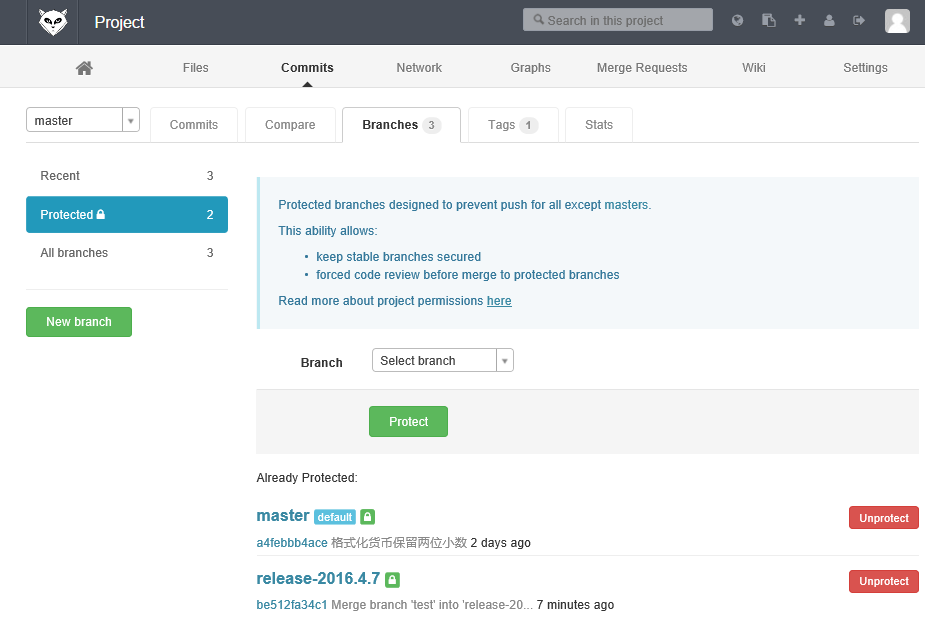
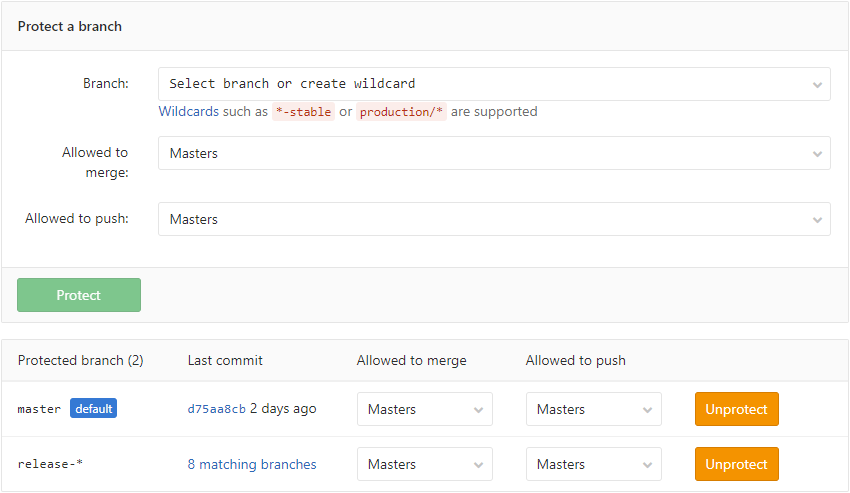
更新 git Protected branches 和 MR

diff --git a/source/_posts/git-permissions.md b/source/_posts/git-permissions.md
@@ -25,14 +25,20 @@ tags: Git
 
 我们需要做的是，为项目成员分配恰当的角色，以限制其权限。
 
-# 锁定受保护分支
+# Protected Branches
 
 在对 Git 不熟悉的时候，时常苦恼于各个分支不受约束，任何开发人员都可以向任何分支直接推送任何提交，各种未经审查的代码、花样百出的 Bug 就这样流窜在预发布分支上。
 
 其实我们可以通过 GitLab 的**受保护分支（Protected Branches）**功能解决该问题，该功能可用于：
 
-* 阻止 Master 角色以外的开发人员直接向此类分支推送代码，保持稳定分支的安全性；
-* 在向受保护分支合并代码前，强制进行代码审查。
+> Keep stable branches secure and force developers to use **merge requests**.
+>
+> By default, protected branches are designed to:
+>
+> - prevent their creation, if not already created, from everybody except Masters
+> - prevent pushes from everybody except Masters
+> - prevent **anyone** from force pushing to the branch
+> - prevent **anyone** from deleting the branch
 
 接下来我们就使用这项功能，锁定我们的受保护分支——主分支 `master` 和预发布分支 `release-*`，以阻止 Developer 直接向这两类分支中推送代码：
 
@@ -54,32 +60,30 @@ To git@website:project.git
 error: failed to push some refs to 'git@website:project.git'
 ```
 
-# 发起合并请求
+# Merge Requests
 
 锁定受保护分支后，要么 Master 需要时刻、主动关注各特性分支的进度，要么 Developer 需要线下、口头向 Master 汇报其特性分支的进度，这两种做法都非常不便于 Master 管理每个预发布分支的合并，尤其在团队大、分支多的情况。
 
 我们可以通过 GitLab 的**发起合并请求（Merge Request）**功能解决该问题，这样既可以让 Developer 更自如的掌控自己分支进度，在必要的时候才主动发起合并请求；又可以减轻 Master 的合并工作量和沟通成本，可谓一举两得。
 
-## 新建合并请求
+## 新建 MR
 
 第一步，按表单要求填写合并请求。注意，对于 Developer 而言：
 
-* `From` 是你的特性分支 `feature-*`；
-* `To` 只可能是预发布分支 `release-*`；
+* `Source branch` 是你的特性分支 `feature-*`；
+* `Tagget branch` 只可能是预发布分支 `release-*`；
 * `Title` 和 `Description` 要填写恰当的分支描述；
-* `Assign to` 是该项目的 Master。
+* `Assignee` 是该项目的 Master。
 
 ![新建合并请求](/img/git/git_new_merge_request.png)
 
-## 审查合并请求
+## 审查 MR
 
-第二步，Master 收到合并请求后，进行代码审查。逐一查看 `Commits` 一栏提交的内容即可，对于需要改进的代码，可以直接在该行添加注释，非常方便。
+第二步，Master 收到合并请求后，进行代码审查。逐一查看 `Commits` 或 `Changes` 一栏提交的内容即可，对于需要改进的代码，可以直接在该行添加注释，非常方便。
 
-![接受合并请求](/img/git/git_accept_merge_request.png)
+如果对整个请求还有疑问的地方，还可以通过 `Discussion` 功能进行线上讨论。
 
-如果对整个请求还有疑问的地方，还可以通过底部的 `Discussion` 功能进行线上讨论。
-
-## 处理合并请求
+## 处理 MR
 
 第三步，针对审查结果进行相应处理：
 

diff --git a/source/_posts/git-branch.md b/source/_posts/git-branch.md
@@ -31,10 +31,10 @@ tags: Git
 
 每一类分支都有一个特定目的，如何命名每一类分支？建议用相关的主题关键字进行命名，并且建议将分支名称分置于不同**命名空间（前缀）**下，例如：
 
-| Branch Name | May branch off from | Must merge back into | Is locked? | Description                              |
-| ----------- | ------------------- | -------------------- | ---------- | ---------------------------------------- |
-| `feature-*` | `dev`               | `dev`                | NO         | 特性分支，为了开发某种特定功能而建。                       |
-| `release-*` | `dev`               | `dev` <br/> `master` | YES        | 预发布分支，为了新版本的发布做准备，一般命名为 `release-<版本号>`。 |
+| Branch Name | May branch off from | Must merge back into | Is locked? | Description                                                  |
+| ----------- | ------------------- | -------------------- | ---------- | ------------------------------------------------------------ |
+| `feature-*` | `dev`               | `dev`                | NO         | 特性分支，为了开发某种特定功能而建。开发完成并测试通过后，需发送 Merge Request 到 `release-*` 进行代码审查及合版。 |
+| `release-*` | `dev`               | `dev` <br/> `master` | YES        | 预发布分支，为了新版本的发布做准备，一般命名为 `release-<版本号>`。这是一个稳定分支，只接受审核通过的 Merge Request。 |
 | `hotfix-*`  | `master`            | `dev` <br/> `master` | NO         | 补丁分支，为了修复生产缺陷而建，一般命名为 `hotfix-<issue 编号>` |
 
 与主分支不同，这些辅助性分支总是有一个有限的生命期，因为他们在被合并到主分支之后，就会被移除掉。
